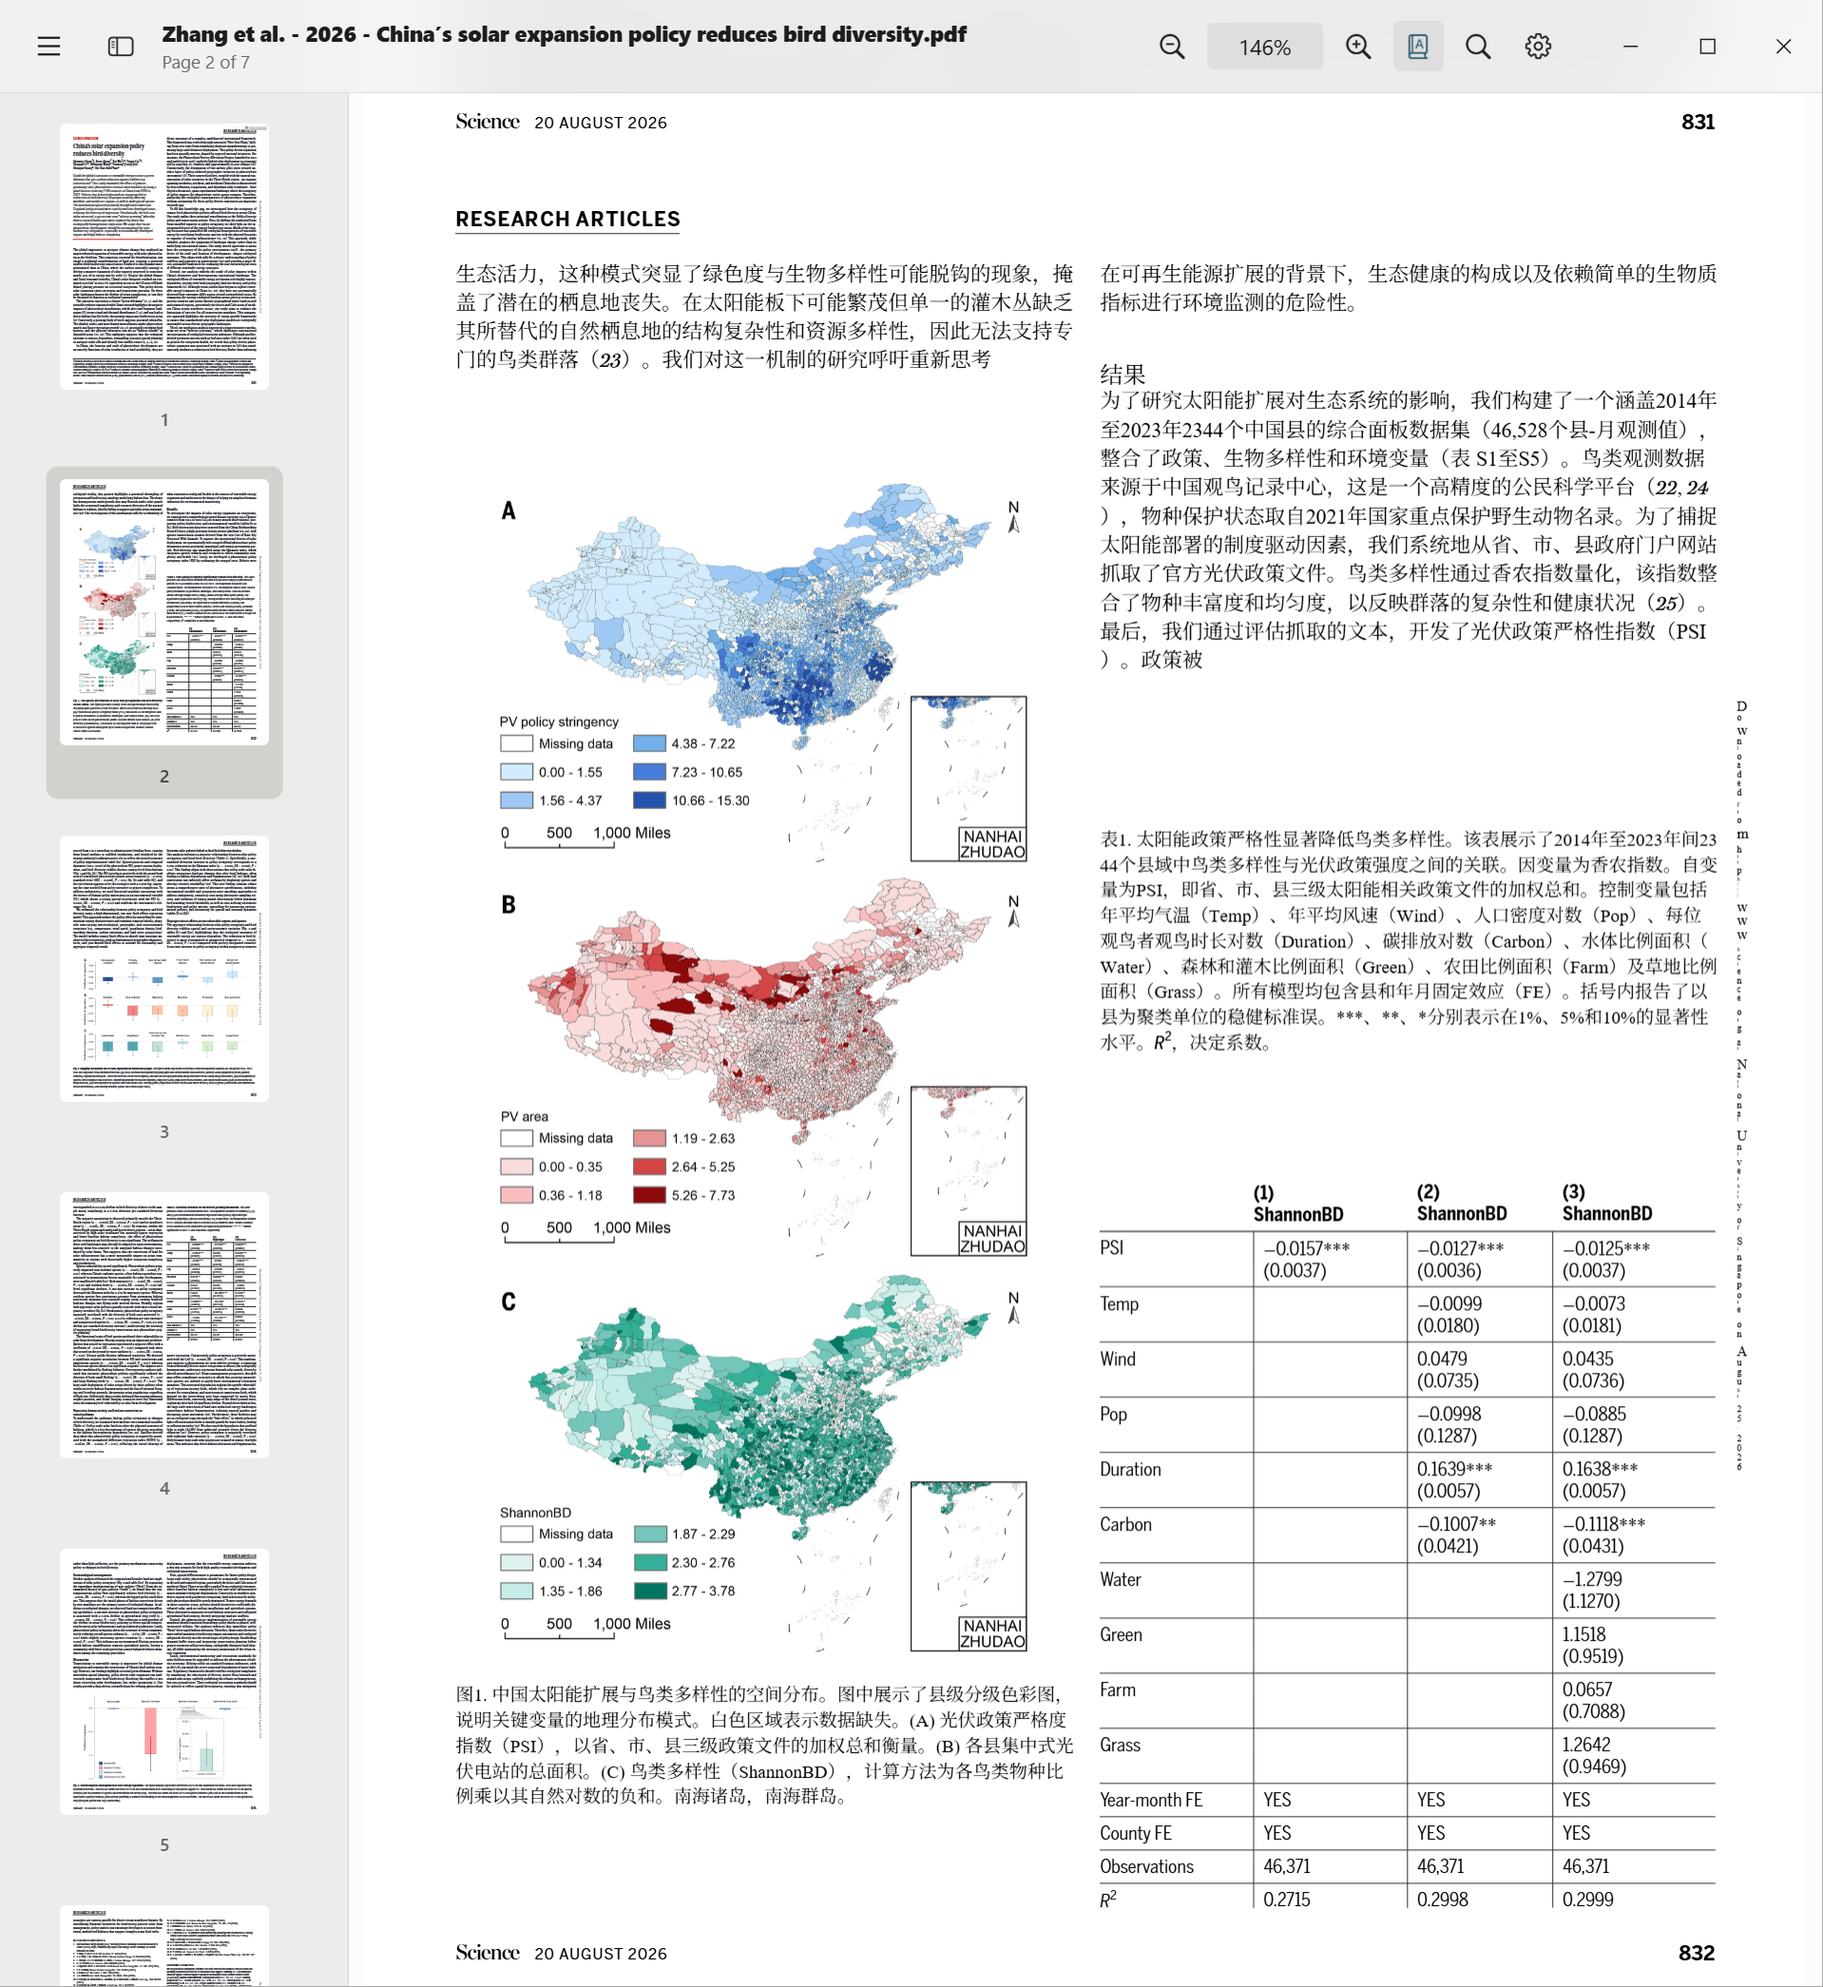
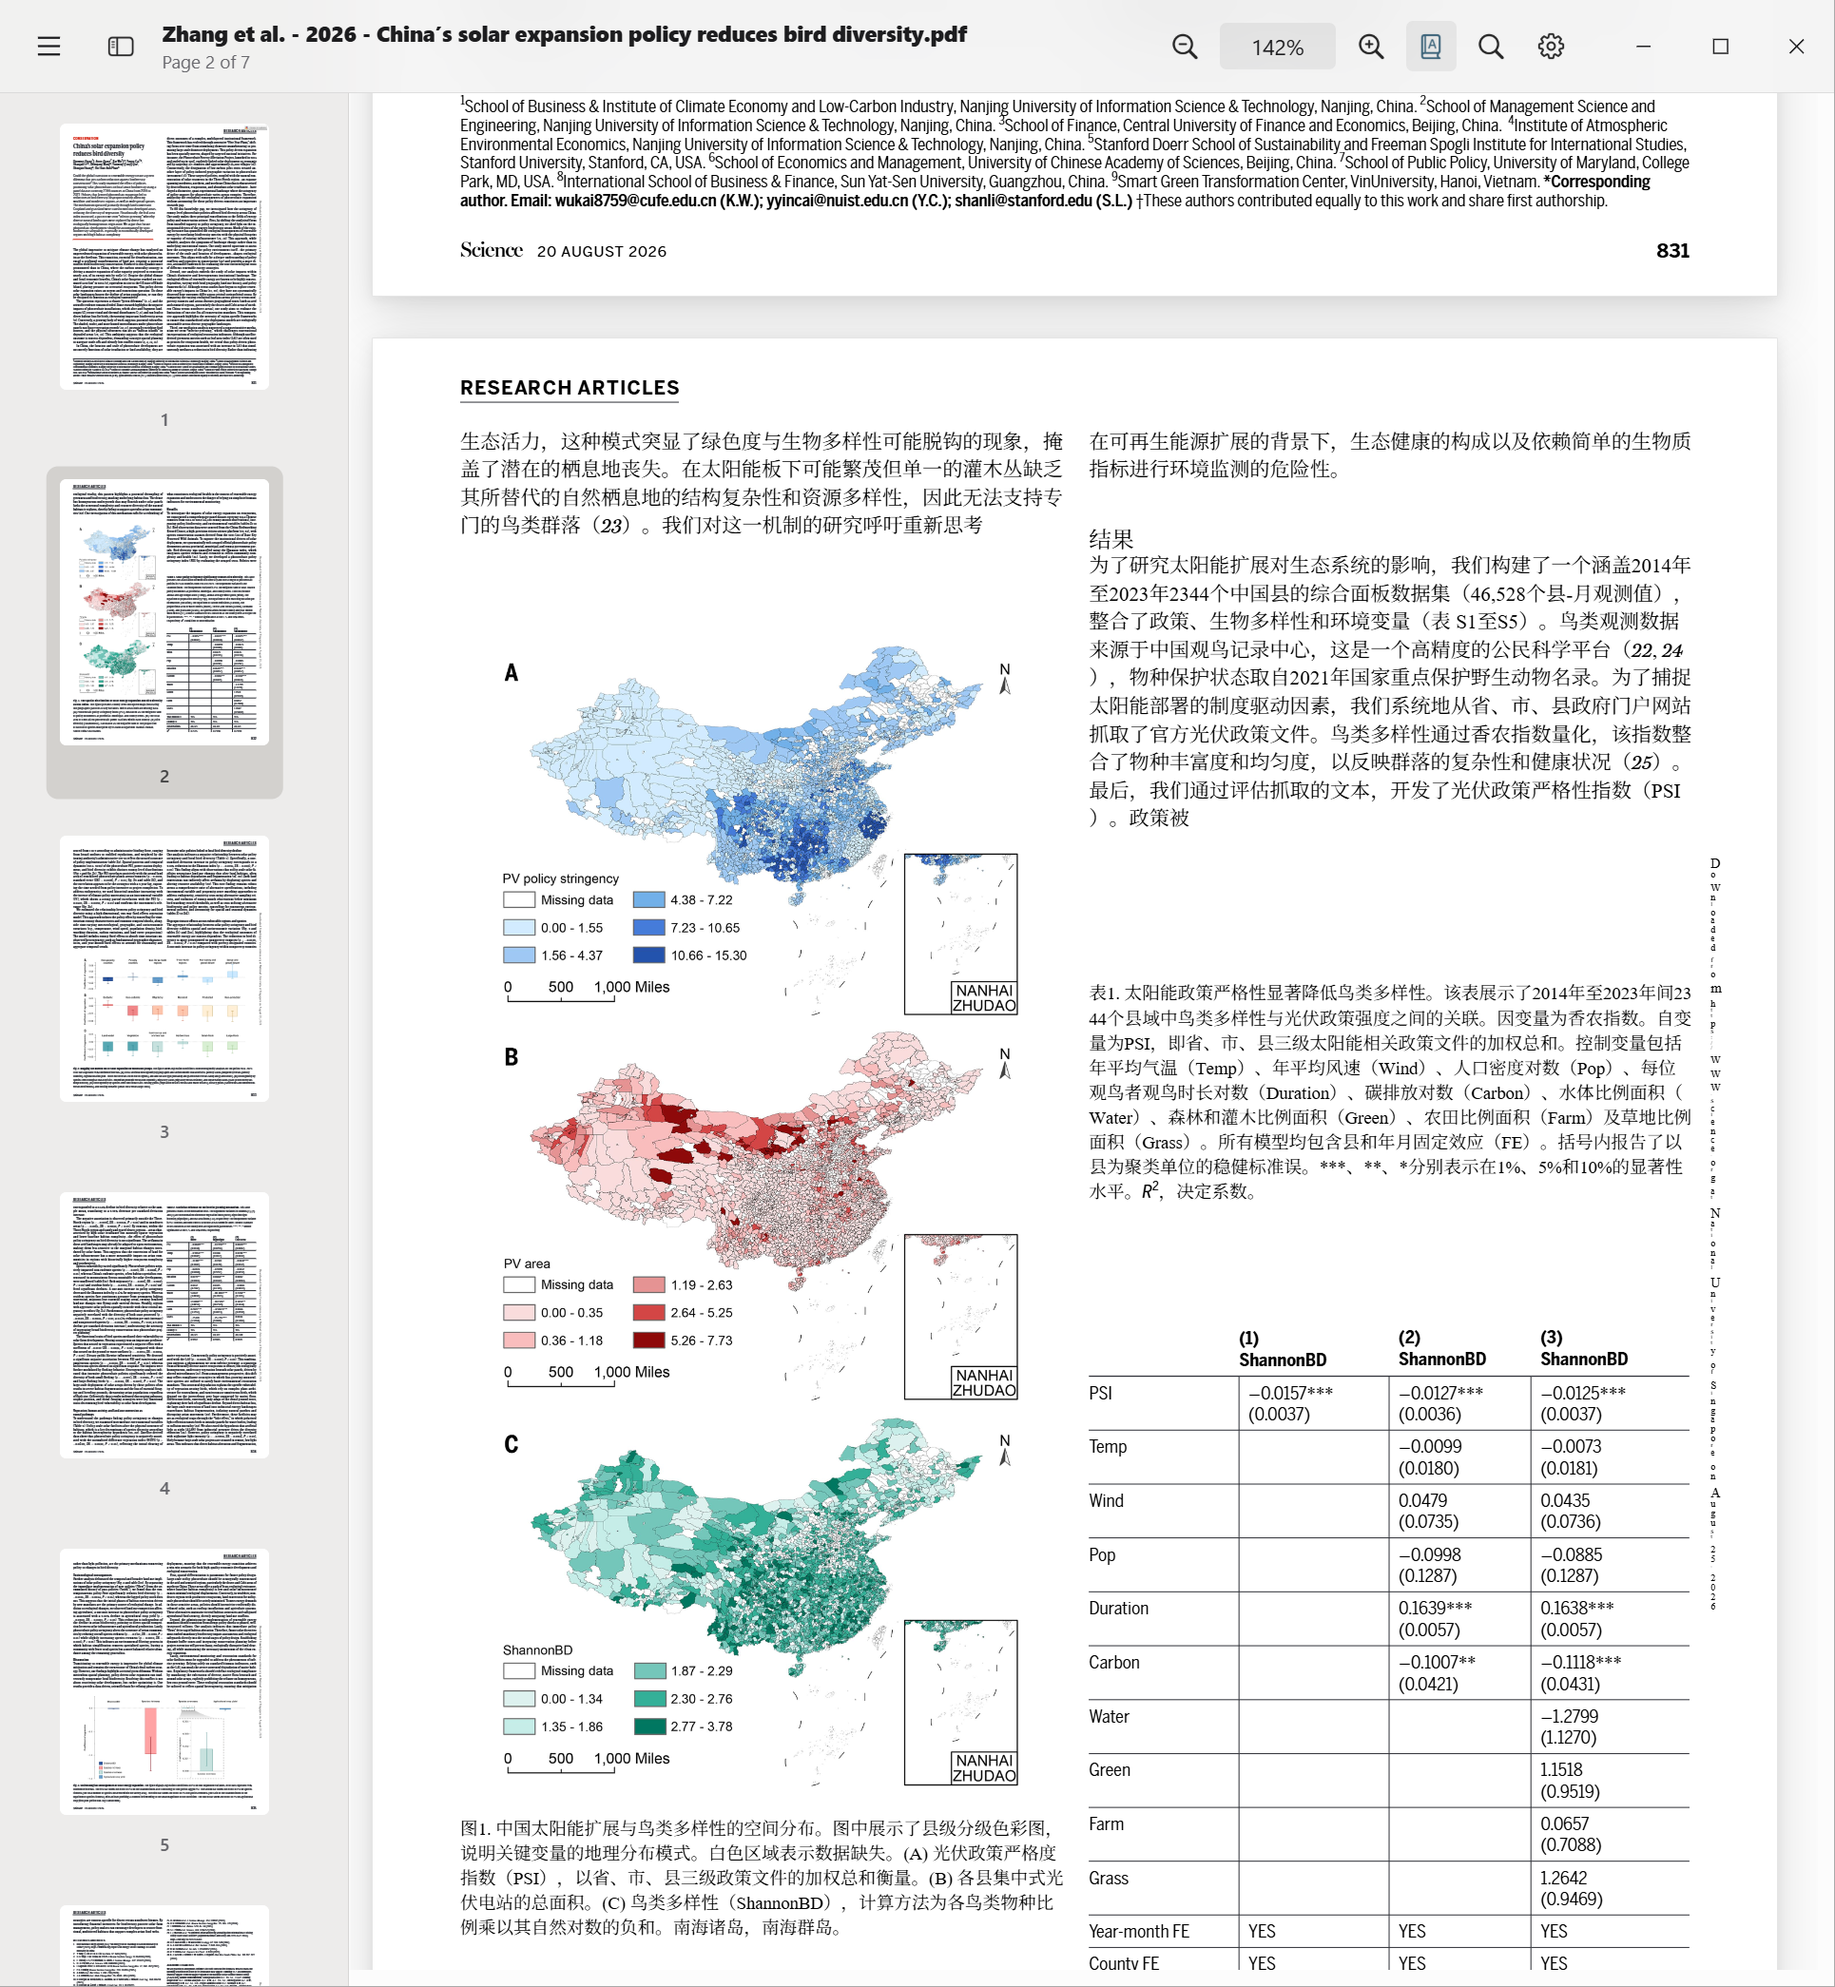
feat(reader): improve Windows controls and add fit shortcuts

diff --git a/src/App.vue b/src/App.vue
@@ -307,7 +307,7 @@ watch([pageInput,zoomInput,()=>pages.value.length,navigatorVisible],()=>nextTick
 async function openSettings(target){selectedParagraph.value=null;settings.value=true;await nextTick();if(target==='language'){languageInput.value?.focus();languageMenuOpen.value=true;}else if(target==='kernel'){kernelFocusPending=engineBusy.value;kernelInput.value?.el?.querySelector('.macvue-segment[data-state="on"]')?.focus();}}
 function chooseKernel(id){kernelFocusPending=!!kernelInput.value?.el?.contains(document.activeElement);engine.value=id;}
 function kernelKeys(e){const current=kernelOptions.findIndex(k=>k.id===engine.value);const index=e.key==='ArrowRight'?Math.min(2,current+1):e.key==='ArrowLeft'?Math.max(0,current-1):e.key==='Home'?0:e.key==='End'?2:null;if(index===null)return;e.preventDefault();if(engineBusy.value)return;kernelFocusPending=true;engine.value=kernelOptions[index].id;nextTick(()=>kernelInput.value?.el?.querySelector('.macvue-segment[data-state="on"]')?.focus());}
-function readerAction(action){if(action.startsWith('layout:'))direction.value=action.split(':')[1];else if(action.startsWith('columns:'))columns.value=Number(action.split(':')[1]);else if(action==='close-document')void closeDocument(true);else if(action==='recents'){if((pages.value.length||loading.value)&&window.previewWindow?.new)void window.previewWindow.new();else void closeDocument();}else if(action==='preferences')openSettings();else if(action==='copy-paragraph')void copyHoveredParagraph();else if(action==='search')void openSearch();else if(action==='open')fileInput.value?.click();else if(action==='translation'){if(!translationTaskProgress.value.busy)showTranslations.value=!showTranslations.value;}else if(action==='zoom-in')changeZoom(.1);else if(action==='zoom-out')changeZoom(-.1);else if(action==='page-previous'){if(pages.value.length)go(active.value-1);}else if(action==='page-next'){if(pages.value.length)go(active.value+1);}else if(action==='sidebar'){if(pages.value.length)toggleSidebar();}else if(action==='settings')settings.value?settings.value=false:openSettings();else if(action==='language'||action==='kernel')openSettings(action);else if(action==='fit-width')chooseFit('width');else if(action==='fit-height')chooseFit('height');else if(action.startsWith('percent:'))go(Math.max(1,Math.ceil(pages.value.length*Number(action.split(':')[1])/100)));}
+function readerAction(action){if(action.startsWith('layout:'))direction.value=action.split(':')[1];else if(action.startsWith('columns:'))columns.value=Number(action.split(':')[1]);else if(action==='close-document')void closeDocument(true);else if(action==='recents'){if((pages.value.length||loading.value)&&window.previewWindow?.new)void window.previewWindow.new();else void closeDocument();}else if(action==='preferences')openSettings();else if(action==='copy-paragraph')void copyHoveredParagraph();else if(action==='search')void openSearch();else if(action==='open')fileInput.value?.click();else if(action==='translation'){if(!translationTaskProgress.value.busy)showTranslations.value=!showTranslations.value;}else if(action==='zoom-in')changeZoom(.1);else if(action==='zoom-out')changeZoom(-.1);else if(action==='page-previous'){if(pages.value.length)go(active.value-1);}else if(action==='page-next'){if(pages.value.length)go(active.value+1);}else if(action==='sidebar'){if(pages.value.length)toggleSidebar();}else if(action==='settings')settings.value?settings.value=false:openSettings();else if(action==='language'||action==='kernel')openSettings(action);else if(action==='fit-width'||action==='fit-height'){if(pages.value.length){chooseFit(action==='fit-width'?'width':'height');notifyCopy(menuLabel(action==='fit-width'?'Fit Width':'Fit Height',uiLanguage.value));}}else if(action.startsWith('percent:'))go(Math.max(1,Math.ceil(pages.value.length*Number(action.split(':')[1])/100)));}
 function dismissPopovers(){windowsMenu.value?.close();settings.value=false;selectedParagraph.value=null;kernelFocusPending=false;error.value='';}
 function outsidePopover(e){if(e.type==="focusin"&&kernelFocusPending&&engineBusy.value)return;if(e.target instanceof Element&&e.target.closest('.document-search,[data-popover-trigger],.settings,.error-banner,.macvue-pop-up-button-content'))return;dismissPopovers();}
 function popoverFocusOut(e){if(kernelFocusPending&&engineBusy.value)return;if(e.relatedTarget&&!e.currentTarget.contains(e.relatedTarget)&&!e.relatedTarget.closest?.('.macvue-pop-up-button-content'))dismissPopovers();}

diff --git a/src/style.css b/src/style.css
@@ -801,6 +801,29 @@ textarea:focus-visible,
   background-clip: padding-box;
 }
 
+/* Use the transparent custom track instead of Windows' native scrollbar surface.
+   Non-auto standard properties override the ::-webkit-scrollbar rules in Chromium. */
+.desktop[data-platform="win32"] .reader {
+  scrollbar-color: auto;
+  scrollbar-width: auto;
+}
+
+[data-appearance="dark"] .desktop[data-platform="win32"] .reader::-webkit-scrollbar-thumb {
+  background-color: rgba(255, 255, 255, 0.27);
+}
+
+[data-appearance="dark"] .desktop[data-platform="win32"] .reader::-webkit-scrollbar-thumb:hover {
+  background-color: rgba(255, 255, 255, 0.4);
+}
+
+.desktop[data-platform="win32"] .reader:not([data-scrolling])::-webkit-scrollbar-thumb {
+  background-color: transparent;
+}
+
+.desktop[data-platform="win32"] .reader::-webkit-scrollbar-corner {
+  background: transparent;
+}
+
 .reader-content,
 .reader-inner,
 .pages {

diff --git a/src/mac-controls.css b/src/mac-controls.css
@@ -40,6 +40,10 @@
 .desktop[data-platform="win32"] .toolbar>.toolbar-actions { flex:0 0 auto; }
 .desktop[data-platform="win32"] .toolbar>.title { flex:1 1 0%;min-width:0; }
 .desktop[data-platform="win32"] .toolbar .icon-button.macvue-button { min-width:30px;max-width:30px;min-height:30px;flex-shrink:0; }
+/* Match the menu to the adjacent Fluent icon button's layout box. */
+.desktop[data-platform="win32"] .toolbar>.windows-menu { width:30px; }
+.desktop[data-platform="win32"] .windows-menu-trigger { box-sizing:border-box;width:30px;min-width:30px;max-width:30px;height:30px;padding:0;margin:0; }
+.desktop[data-platform="win32"] .toolbar>.icon-button { margin:0; }
 
 /* Fluent tabs use an underline, while MacVue assumes white text on a fill. */
 .desktop[data-platform="win32"] .settings fluent-tablist.macvue-segmented { height:auto;min-height:36px;align-items:stretch; }
